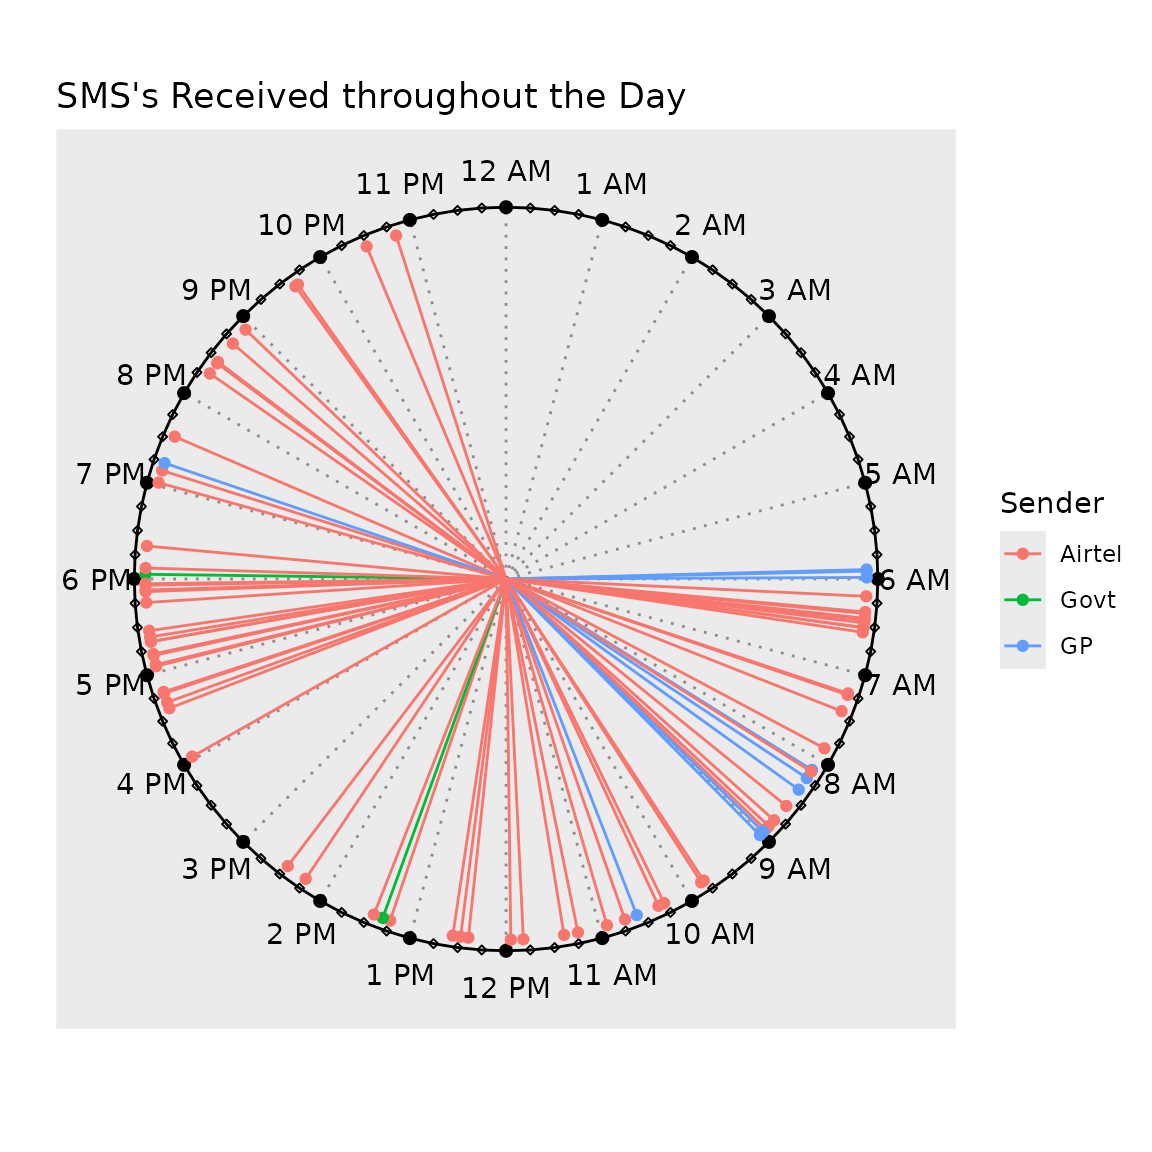
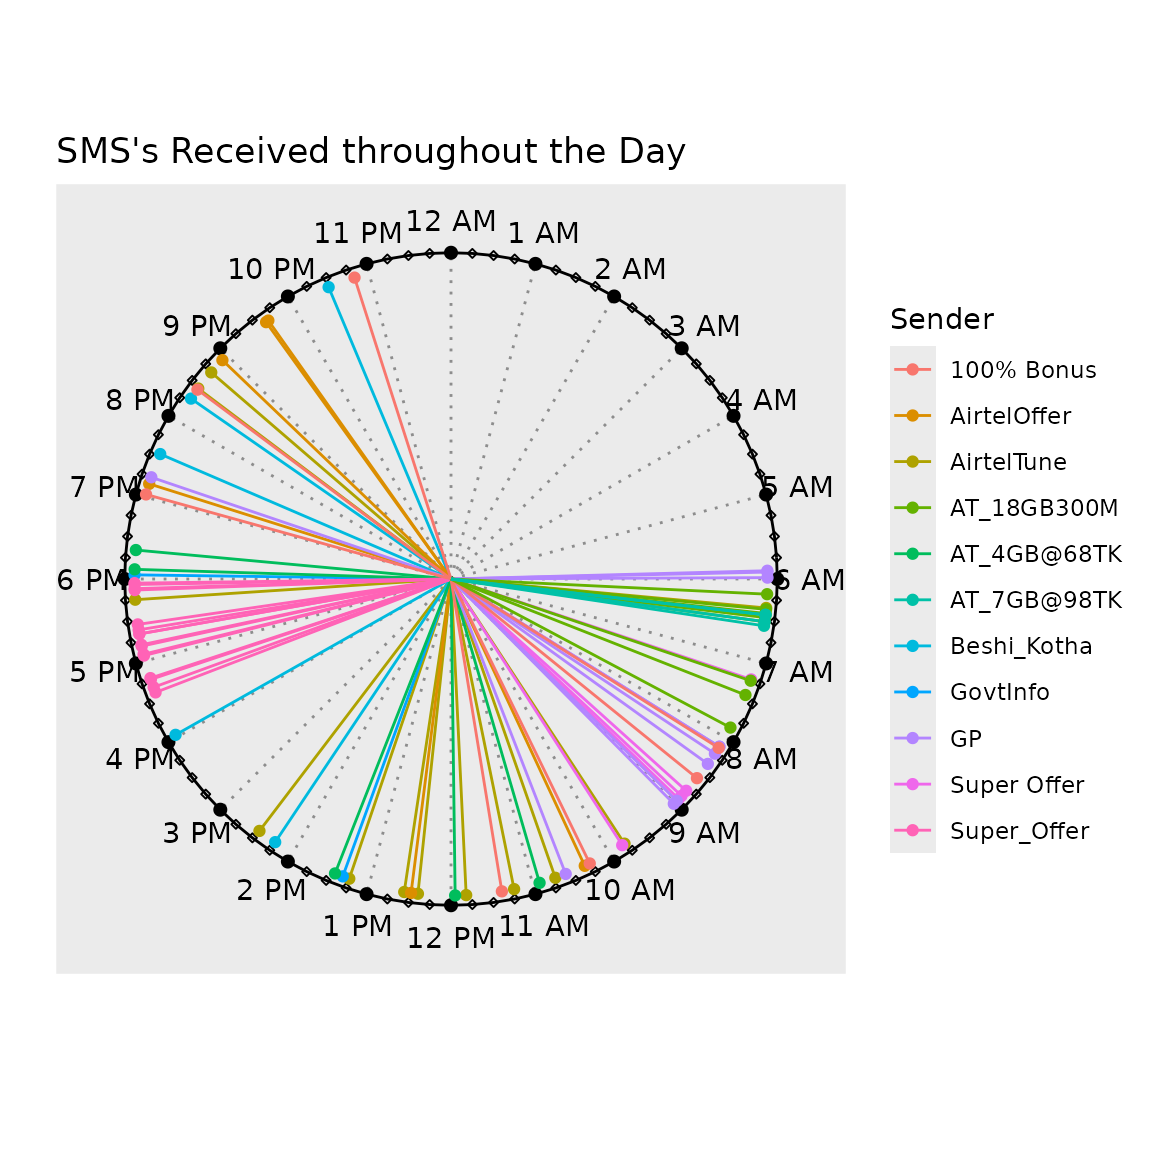
Deploying to gh-pages from @ mahmudstat/clockplot@a29538ceb680c628fb736f624193e255087b1203 🚀

diff --git a/articles/clockplot.html b/articles/clockplot.html
@@ -225,10 +225,13 @@ meaningfully present a variable, we can confine ourselves to
 <h3 id="qualitative-variable">Qualitative variable<a class="anchor" aria-label="anchor" href="#qualitative-variable"></a>
 </h3>
 <div class="sourceCode" id="cb11"><pre class="downlit sourceCode r">
-<code class="sourceCode R"><span><span class="fu"><a href="../reference/clock_chart_qlt.html">clock_chart_qlt</a></span><span class="op">(</span><span class="va">smsclock</span>, time <span class="op">=</span> <span class="va">time</span>, crit <span class="op">=</span> <span class="va">sender</span><span class="op">)</span><span class="op">+</span></span>
+<code class="sourceCode R"><span><span class="fu"><a href="../reference/clock_chart_qlt.html">clock_chart_qlt</a></span><span class="op">(</span><span class="va">smsclock</span>, time <span class="op">=</span> <span class="va">time</span>, crit <span class="op">=</span> <span class="va">Title</span><span class="op">)</span><span class="op">+</span></span>
 <span><span class="fu">ggplot2</span><span class="fu">::</span><span class="fu"><a href="https://ggplot2.tidyverse.org/reference/labs.html" class="external-link">labs</a></span><span class="op">(</span>color <span class="op">=</span> <span class="st">"Sender"</span>, title <span class="op">=</span> <span class="st">"SMS's Received throughout the Day"</span><span class="op">)</span></span></code></pre></div>
 <p><img src="clockplot_files/figure-html/clock-chart-qlt-1.png" width="576" style="display: block; margin: auto;"></p>
-<p>This makes it convenient to see which sender sent messages when.</p>
+<p>This makes it convenient to see which types of messages were sent
+when. Certain types of messages, such as Supper_Offer, are always sent
+around the same time. Other messages are spread throughout the day.
+Between 11 PM and 6 AM, no messages are received.</p>
 <p>We can also make use of the <code><a href="https://ggplot2.tidyverse.org/reference/facet_wrap.html" class="external-link">facet_wrap()</a></code> function from
 the <code>ggplot2</code> package.</p>
 <p><strong>Instructions from the beginning which args to use in
